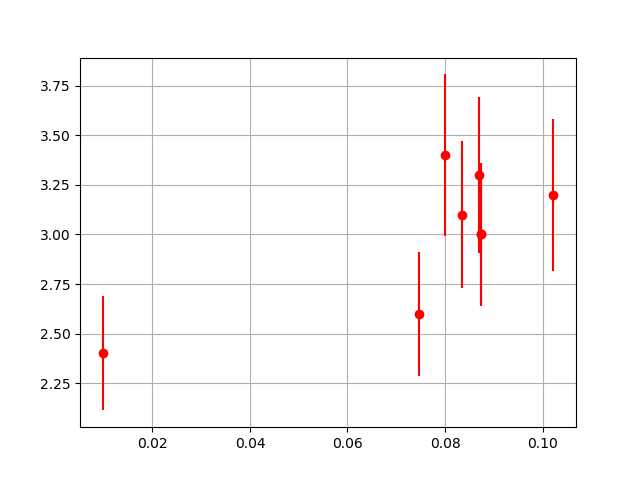
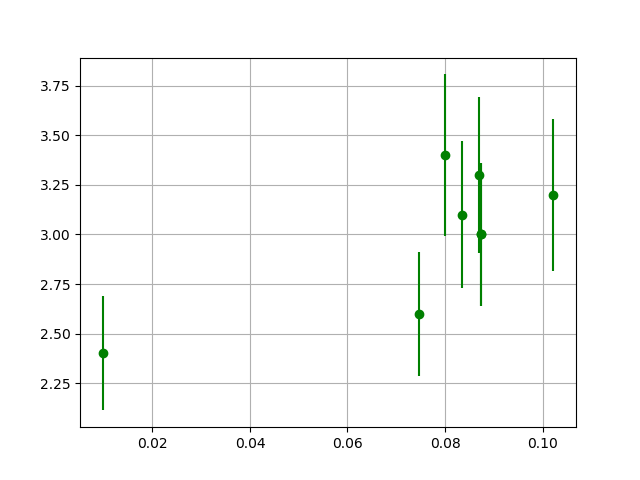
все

diff --git a/test/graph_ne.py b/test/graph_ne.py
@@ -49,9 +49,9 @@ def _file_still_en(filename):
         for i in range(len(ro)):
             E_n.append(E_N(ro[i]))
             ro[i]*=(1/300*0.02898/8.31/294*10**5)
-    plt.errorbar(pressure_del,ne, yerr = y_err, fmt='o', color = 'r', label = "Эксперимент")#, uplims= TRUE, lolims=TRUE)
-    plt.plot(ro, E_n, color = "b", label = "Рассчитанные средние значения")
-    plt.legend()
+    plt.errorbar(pressure_del,ne, yerr = y_err, fmt='o', color = 'm', label = "Эксперимент")#, uplims= TRUE, lolims=TRUE)
+    #plt.plot(ro, E_n, color = "b", label = "Рассчитанные средние значения")
+    #plt.legend()
     #plt.title("Приведенное электрическое поле")
 
 def _file_osc(filename):
@@ -94,7 +94,7 @@ def _file_energy_flow(filename):
             mach.append(float(y)/300*0.02898/8.31/294*10**5)    
             #y_err.append(float(z))               
     #plt.errorbar(mach,ne, yerr = y_err, fmt='o', color = 'r')
-    plt.scatter(mach, ne, color = "r")
+    plt.scatter(mach, ne, color = "g")
     #plt.title("Энергия электронов")
     #plt.xlabel("число Маха")
     #plt.ylabel("E - энергия электронов [еВ]")
@@ -108,7 +108,7 @@ def _file_energy_still(filename):
             ne.append(float(x))
             pressure_del.append(float(y)/300*0.02898/8.31/294*10**5)
             y_err.append(float(z))               
-    plt.errorbar(pressure_del,ne, yerr = y_err, fmt='o', color = 'r')
+    plt.errorbar(pressure_del,ne, yerr = y_err, fmt='o', color = 'g')
     #plt.scatter(pressure_del, ne, color = "r", marker="s")
     #plt.title("Энергия электронов")
     #plt.xlabel("Давление [Торр]")
@@ -145,8 +145,9 @@ def two_graphs(filename):
             ne1.append(float(x1))
             pressure_del1.append(float(y1)/300*0.02898/8.31/294*10**5)
             y_err1.append(float(z1))
-    plt.errorbar(pressure_del,ne, yerr = y_err, fmt='o', color = 'r')#, uplims= TRUE, lolims=TRUE)
     plt.errorbar(pressure_del1,ne1, yerr = y_err1, fmt='o', color = 'b')#, uplims= TRUE, lolims=TRUE)
+    plt.errorbar(pressure_del,ne, yerr = y_err, fmt='o', color = 'r')#, uplims= TRUE, lolims=TRUE)
+    
 
     #plt.scatter(pressure_del, ne, color = "r")
     plt.title("Концентрация электронов")
